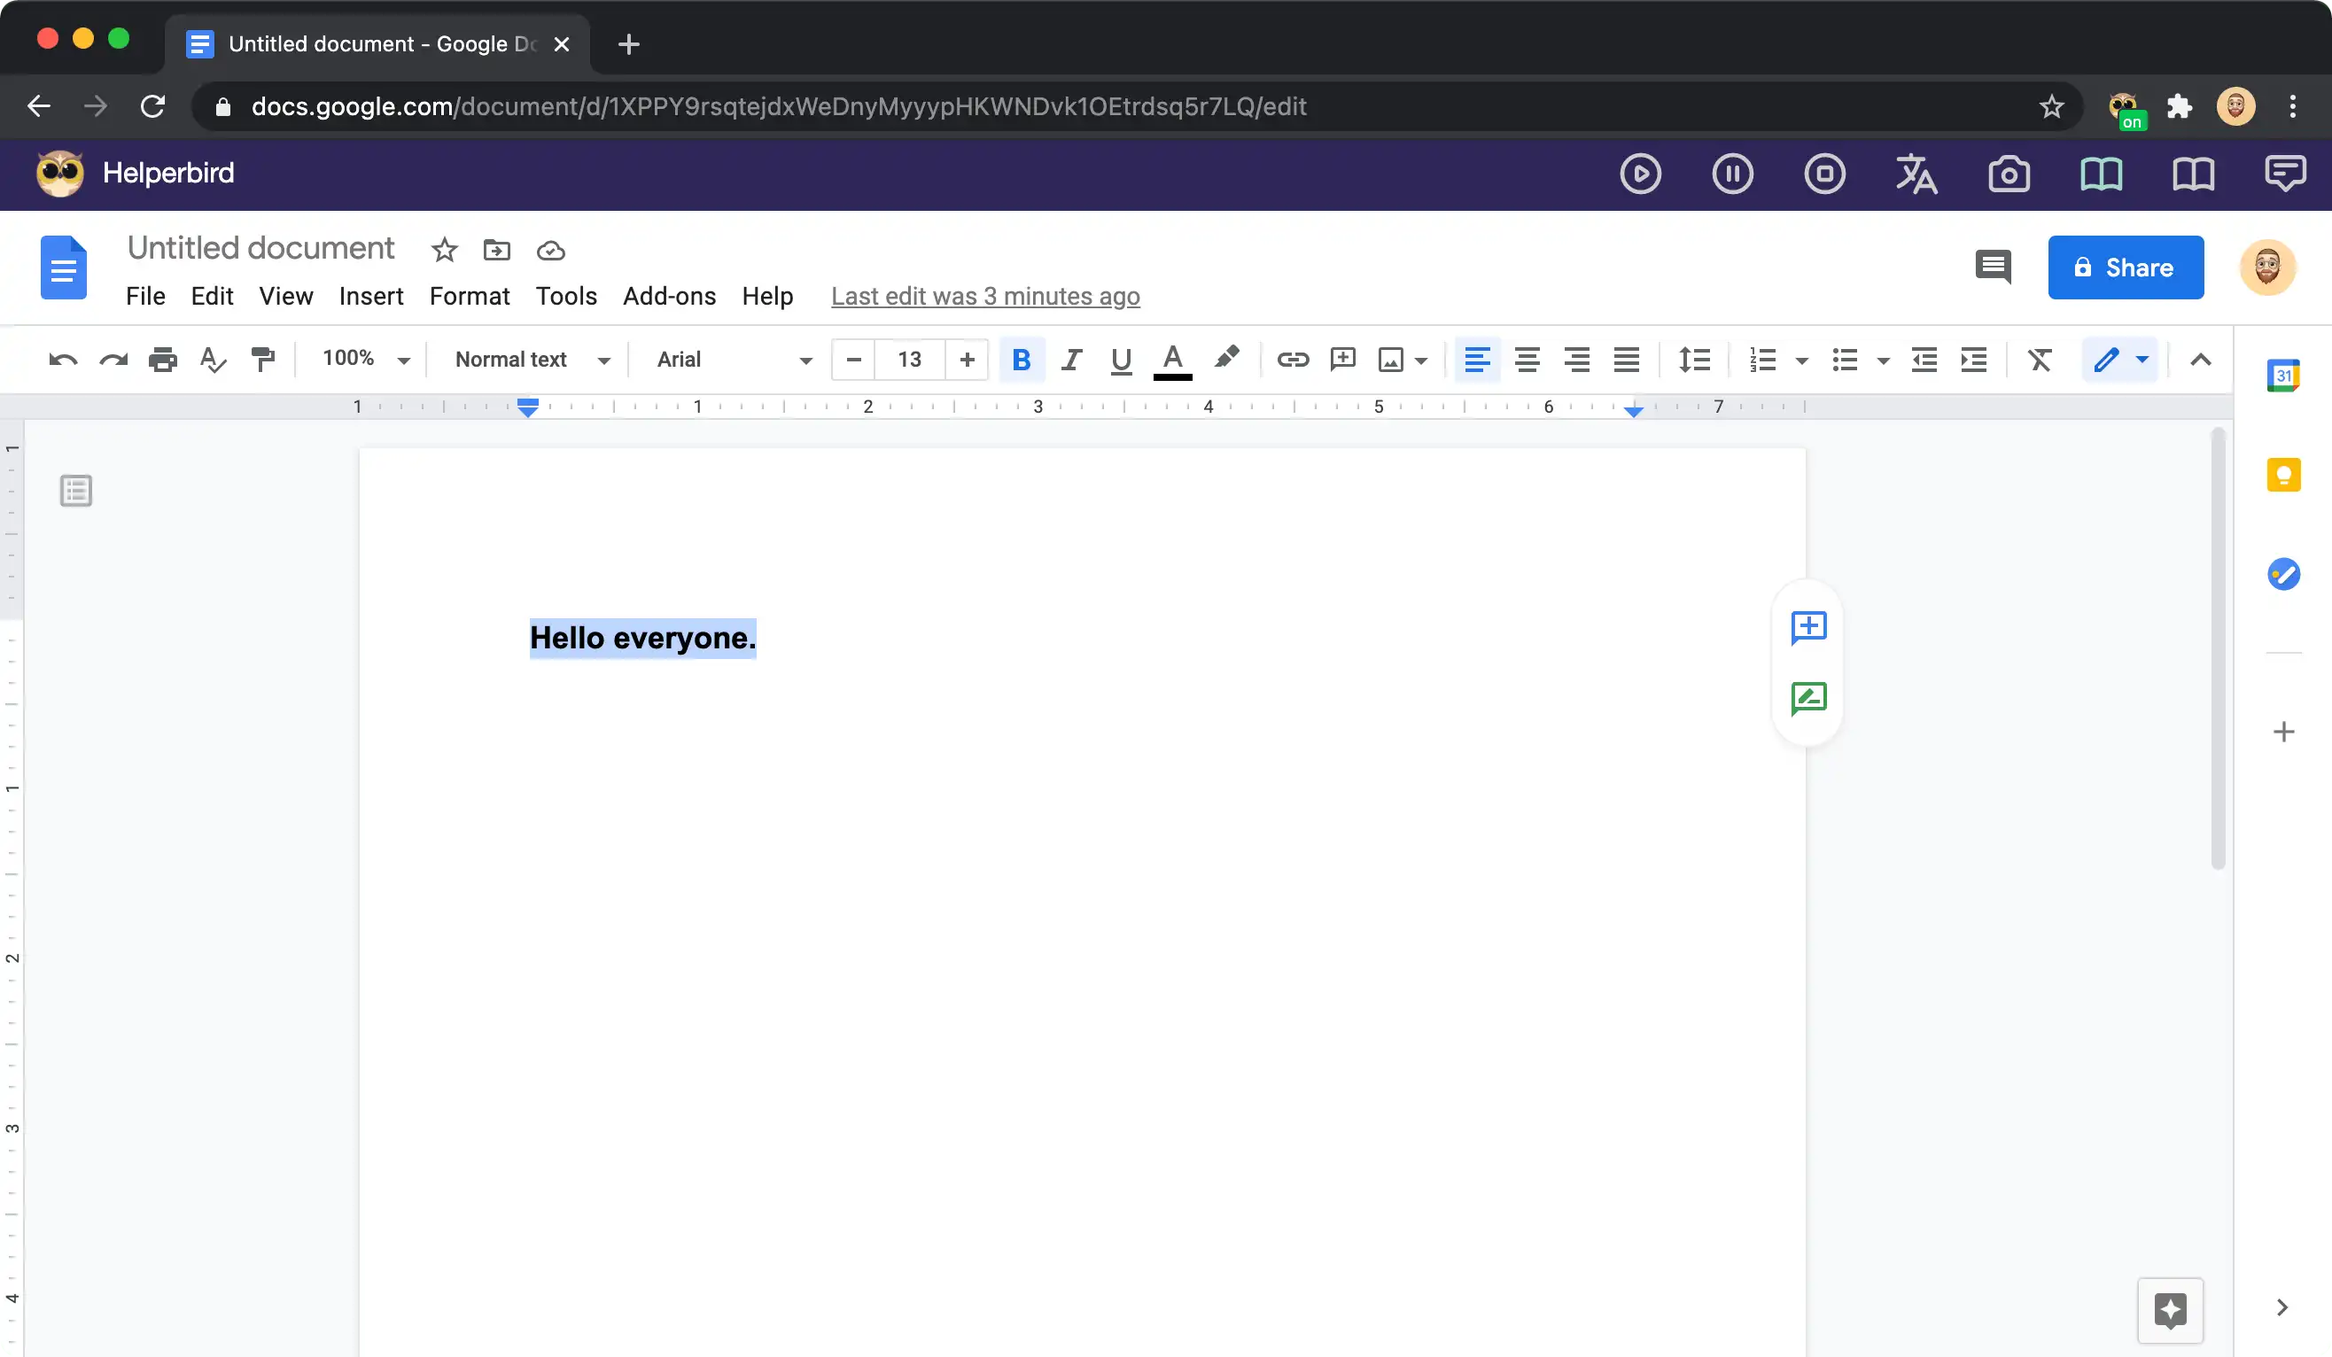
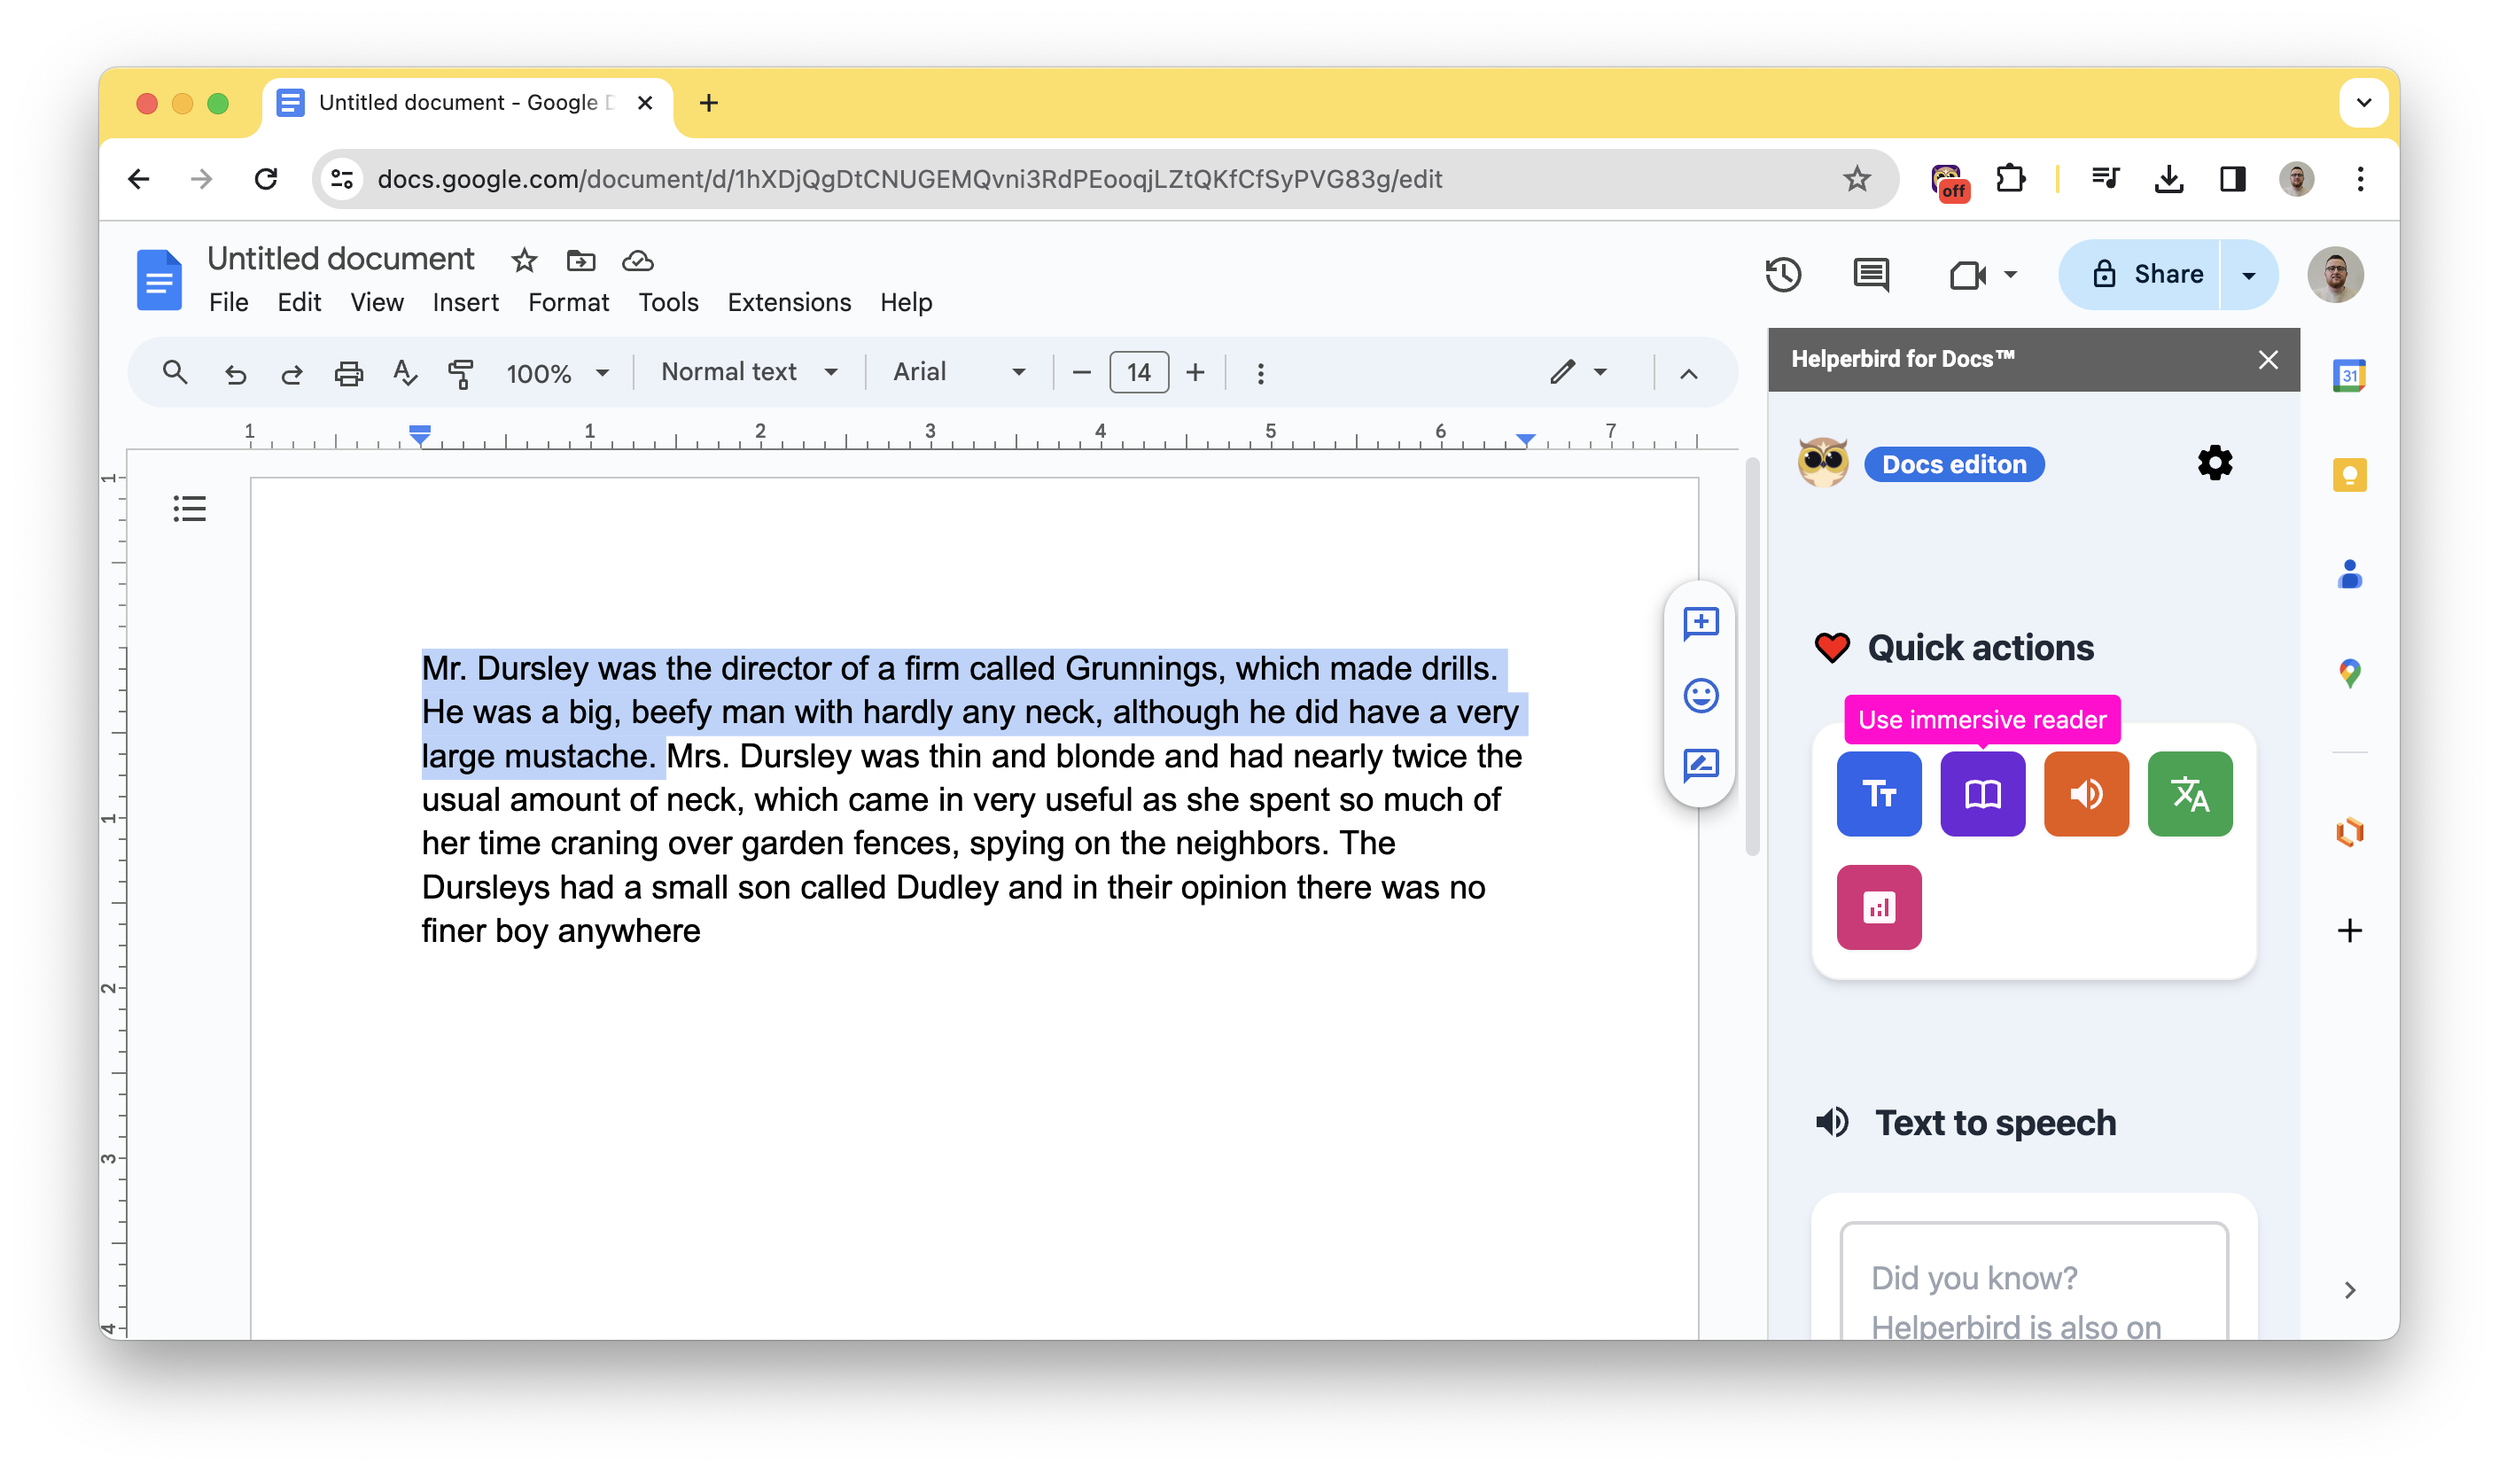
k

diff --git a/src/pages/blog/how-to-use-immersive-reader-in-google-docs.md b/src/pages/blog/how-to-use-immersive-reader-in-google-docs.md
@@ -2,7 +2,7 @@
 new: false
 header: true
 layout: templates/blog_post.liquid
-title: How to Use Immersive Reader in Google Docs, Step-by-Step Guide
+title: How to Use Immersive Reader in Google Docs
 description: Learn how to use Immersive Reader in Google Docs for free. Follow our step-by-step guide to enable and utilize this powerful dyslexia software tool.
 keywords: Immersive Reader, Google Docs, dyslexia software, step-by-step guide, accessibility software, Helperbird, dyslexia fonts, dyslexia software, reading mode, text reader, voice typing
 url: blog/how-to-use-immersive-reader-in-google-docs/
@@ -16,40 +16,51 @@ cat: Guide
 des: Discover how to use Immersive Reader in Google Docs for free.
 name: Robert James
 img: /assets/images/blog/how-to-use-immersive-reader-in-google-docs/how-to-turn-on-helperbirds-google-toolbar.png
-date: 2023-05-24T00:00:00.000Z
+date: 2024-01-24T00:00:00.000Z
 time: 10 min
 ---
 
 
-### You can use Immersive reader in Google docs using Helperbird.
 
-- Today we will walk you through how to to do it.
+## 1. Install the Helperbird Google Docs Addon
 
-- First, you will need to download Helperbird and install it on your browser.
+If you haven't already you will need to install the [Helperbird Google Docs & Google Slides Add-on](https://www.helperbird.com/products/google-addon/).
 
-- You can use it on Google Chrome, Mozilla Firefox and Microsoft Edge.
+This can be done by following this link to the [Google Workspace Marketplace](https://workspace.google.com/marketplace/app/helperbird/844716805038).
 
-- Now that you have it installed, visit your Google docs file.
 
-- Once it is open, you will need to turn on the Helperbird Google doc toolbar.
+--- 
 
-![Step one of how to use immersive reader in Google docs](/assets/images/blog/how-to-use-immersive-reader-in-google-docs/how-to-turn-on-helperbirds-google-toolbar.png)
+## 2. How to Open the Helperbird Addon
 
-Step one of how to use immersive reader in Google docs
+![Screenshot of a Google Docs interface showing the 'Extensions' menu selected, with a submenu visible. The submenu highlights the 'Apps Script' option. On the right side of the screen, a sidebar is open with the 'Helperbird for Docs™' add-on expanded, displaying 'Help' and 'More' as clickable options."](/assets/images/blog/how-to-use-immersive-reader-in-google-docs/how-to-turn-on-helperbirds-google-toolbar.png)
 
-- Now you should see the toolbar along the top of your Google docs file.
+- Go to the **Extensions** menu at the top of the Google Docs.
+- In the dropdown menu, navigate to **Helperbird**.
+- Click on **Helperbird for Docs™** to expand it if it's not already expanded.
+- Within the expanded 'Helperbird for Docs™' section, you can then click on 'Help' or any other available options to interact with the addon as needed.
 
-- Excellent, so next highlight the text you want to use in Immersive reader.
 
-![Highlight the text you want to use in Immersive reader.](/assets/images/blog/how-to-use-immersive-reader-in-google-docs/highlight-the-text-in-google-docs-to-use-immersive-reader.png)
+--- 
 
-Highlight the text you want to use in Immersive reader.
+## 3. Using Immersive Reader in Google Docs
 
-Now in the toolbar, click the first book icon; immersive reader will begin to load using the text
-you highlighted.
+- Now that Helperbird Google Docs add-on is open.
+- Highlight the text in your document that you want the Immersive Reader to read.
+- Look at the Helperbird sidebar on the right side of your screen.
+- In the **Quick actions** section of the Helperbird sidebar, find the **Use immersive reader** button, which is represented by an icon with a book and a speaker.
+- Click on the 'Use immersive reader' icon to activate the Immersive reader for the selected text.
 
-![Click the first book icon in the toolbar to load immersive reader.](/assets/images/blog/how-to-use-immersive-reader-in-google-docs/immersive-reader-loading-in-google-docs.png)
+![Screenshot of an open Google Docs document with a block of text selected. On the right side, the 'Helperbird for Docs™' sidebar is displayed with a section titled 'Quick actions'. Under 'Quick actions', there are various tool options, including the highlighted 'Use immersive reader' button, which features an icon with a book and a speaker. Other tool icons are also visible, such as text-to-speech and font adjustment options.](/assets/images/blog/how-to-use-immersive-reader-in-google-docs/highlight-the-text-in-google-docs-to-use-immersive-reader.png)
 
-Click the first book icon in the toolbar to load immersive reader.
+---
 
-- Now that's how you use the immersive reader in Google docs.
+## 4. Immersive Reader is open
+
+- The selected text will now appear in the **Immersive Reader** within the Helperbird sidebar.
+- You can customize your reading experience using the options available at the top of the Immersive Reader. 
+- To begin listening to the text being read aloud, click the **Play** button at the bottom of the Immersive Reader panel.
+
+![Screenshot of the Helperbird add-on's 'Immersive Reader' feature activated within Google Docs. The document text 'Mr. Dursley' is magnified in a separate overlay to the right, with each word enlarged and individually highlighted. Below the magnified text, there's a 'Play' button indicating the start of the text-to-speech function. The Helperbird sidebar is visible, showing the 'Immersive Reader' header and the text magnification feature in use.](/assets/images/blog/how-to-use-immersive-reader-in-google-docs/immersive-reader-loading-in-google-docs.png)
+
+
